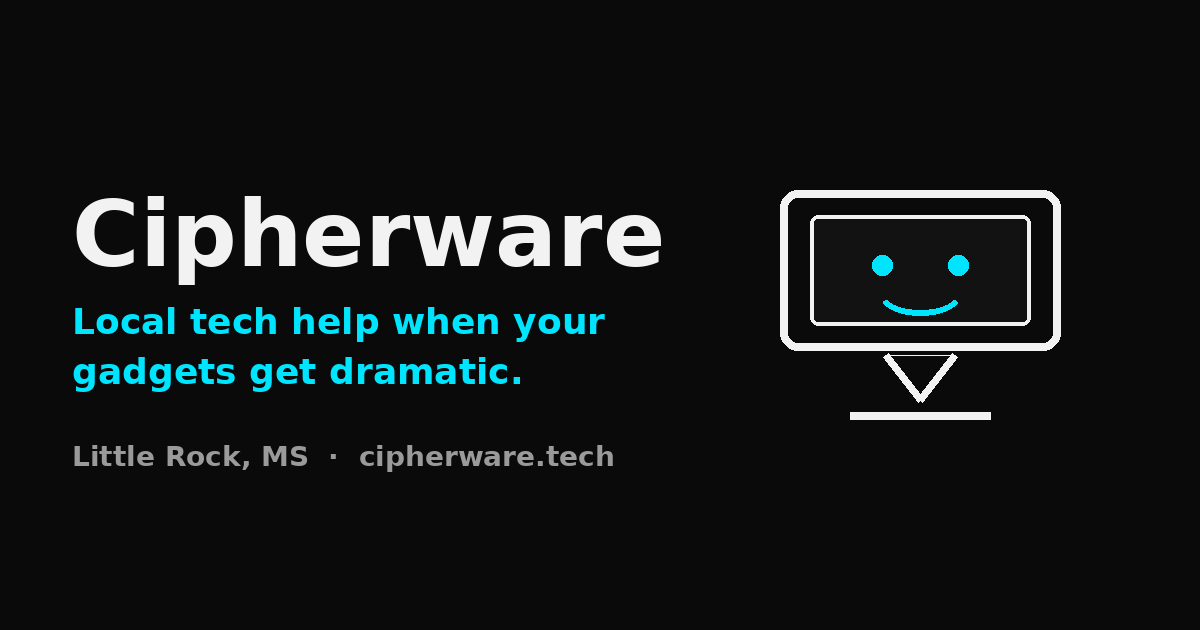
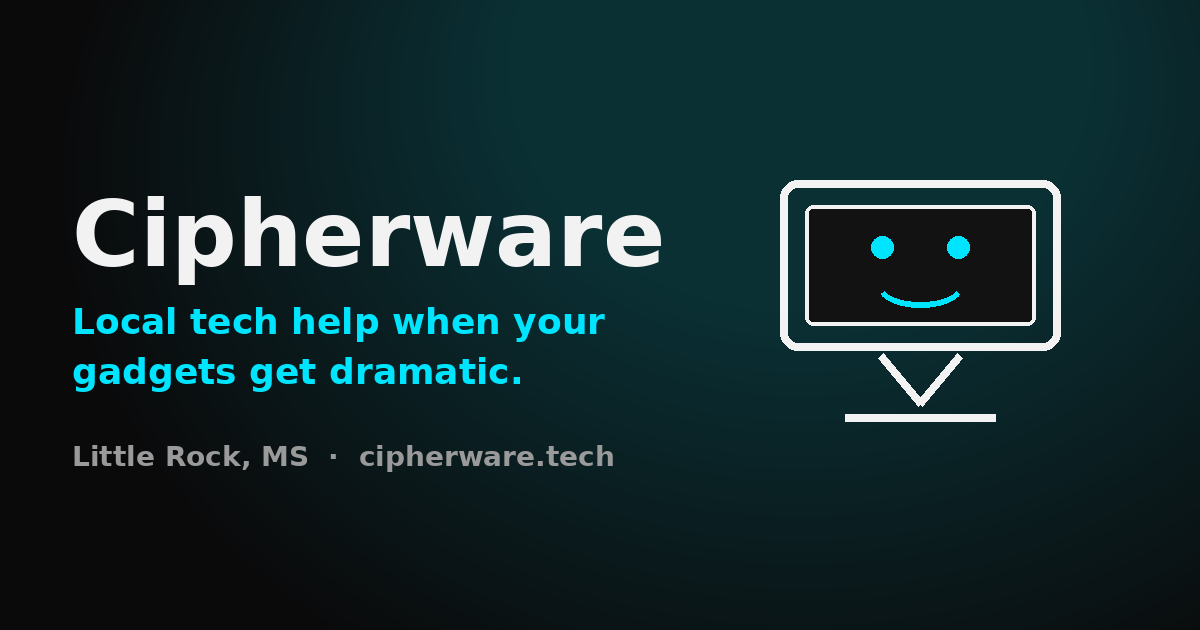
:lipstick: fix(og): raise mark face on share image (v1.5.1)

diff --git a/index.html b/index.html
@@ -15,14 +15,14 @@
     <meta property="og:url" content="https://cipherware.tech/" />
     <meta property="og:title" content="Cipherware — Local tech that doesn’t ghost you" />
     <meta property="og:description" content="Cipherware is a local Mississippi tech shop for IT consulting, device repair, websites, hosting, support, IoT, AI, and software — serving Little Rock, MS and surrounding area within 50 miles." />
-    <meta property="og:image" content="https://cipherware.tech/og-image.png" />
+    <meta property="og:image" content="https://cipherware.tech/og-image.png?v=1.5.1" />
     <meta property="og:image:width" content="1200" />
     <meta property="og:image:height" content="630" />
     <meta property="og:image:alt" content="Cipherware — local tech help in Little Rock, MS" />
     <meta name="twitter:card" content="summary_large_image" />
     <meta name="twitter:title" content="Cipherware — Local tech that doesn’t ghost you" />
     <meta name="twitter:description" content="Cipherware is a local Mississippi tech shop for IT consulting, device repair, websites, hosting, support, IoT, AI, and software — serving Little Rock, MS and surrounding area within 50 miles." />
-    <meta name="twitter:image" content="https://cipherware.tech/og-image.png" />
+    <meta name="twitter:image" content="https://cipherware.tech/og-image.png?v=1.5.1" />
     <link rel="icon" href="favicon.svg" type="image/svg+xml" />
     <link rel="preconnect" href="https://fonts.googleapis.com" />
     <link rel="preconnect" href="https://fonts.gstatic.com" crossorigin />
@@ -30,7 +30,7 @@
       href="https://fonts.googleapis.com/css2?family=Outfit:wght@400;500&family=Space+Grotesk:wght@500;700&display=swap"
       rel="stylesheet"
     />
-    <link rel="stylesheet" href="styles.css?v=1.5.0" />
+    <link rel="stylesheet" href="styles.css?v=1.5.1" />
   </head>
   <body>
     <div class="atmosphere" aria-hidden="true"></div>
@@ -152,10 +152,10 @@
       <div class="footer-meta">
         <span>© 2026 Cipherware</span>
         <span>Little Rock, MS</span>
-        <span class="site-version" data-site-version>v1.5.0</span>
+        <span class="site-version" data-site-version>v1.5.1</span>
       </div>
     </footer>
-    <script src="js/config.js?v=1.5.0"></script>
-    <script src="js/site.js?v=1.5.0"></script>
+    <script src="js/config.js?v=1.5.1"></script>
+    <script src="js/site.js?v=1.5.1"></script>
   </body>
 </html>

diff --git a/contact.html b/contact.html
@@ -15,14 +15,14 @@
     <meta property="og:url" content="https://cipherware.tech/contact.html" />
     <meta property="og:title" content="Contact &amp; Book — Cipherware" />
     <meta property="og:description" content="Contact Cipherware in Little Rock, MS — serving the surrounding area within 50 miles of Little Rock, MS. Phone, email, hours, and booking." />
-    <meta property="og:image" content="https://cipherware.tech/og-image.png" />
+    <meta property="og:image" content="https://cipherware.tech/og-image.png?v=1.5.1" />
     <meta property="og:image:width" content="1200" />
     <meta property="og:image:height" content="630" />
     <meta property="og:image:alt" content="Cipherware — local tech help in Little Rock, MS" />
     <meta name="twitter:card" content="summary_large_image" />
     <meta name="twitter:title" content="Contact &amp; Book — Cipherware" />
     <meta name="twitter:description" content="Contact Cipherware in Little Rock, MS — serving the surrounding area within 50 miles of Little Rock, MS. Phone, email, hours, and booking." />
-    <meta name="twitter:image" content="https://cipherware.tech/og-image.png" />
+    <meta name="twitter:image" content="https://cipherware.tech/og-image.png?v=1.5.1" />
     <link rel="icon" href="favicon.svg" type="image/svg+xml" />
     <link rel="preconnect" href="https://fonts.googleapis.com" />
     <link rel="preconnect" href="https://fonts.gstatic.com" crossorigin />
@@ -30,7 +30,7 @@
       href="https://fonts.googleapis.com/css2?family=Outfit:wght@400;500&family=Space+Grotesk:wght@500;700&display=swap"
       rel="stylesheet"
     />
-    <link rel="stylesheet" href="styles.css?v=1.5.0" />
+    <link rel="stylesheet" href="styles.css?v=1.5.1" />
   </head>
   <body>
     <div class="atmosphere" aria-hidden="true"></div>
@@ -127,12 +127,12 @@
       <div class="footer-meta">
         <span>© 2026 Cipherware</span>
         <span>Little Rock, MS</span>
-        <span class="site-version" data-site-version>v1.5.0</span>
+        <span class="site-version" data-site-version>v1.5.1</span>
       </div>
     </footer>
 
-    <script src="js/config.js?v=1.5.0"></script>
-    <script src="js/site.js?v=1.5.0"></script>
+    <script src="js/config.js?v=1.5.1"></script>
+    <script src="js/site.js?v=1.5.1"></script>
     <script src="js/cal-embed.js"></script>
   </body>
 </html>

diff --git a/about.html b/about.html
@@ -15,14 +15,14 @@
     <meta property="og:url" content="https://cipherware.tech/about.html" />
     <meta property="og:title" content="About — Cipherware" />
     <meta property="og:description" content="Cipherware is a small local tech business in Little Rock, Mississippi — serving the surrounding area within 50 miles of Little Rock, MS." />
-    <meta property="og:image" content="https://cipherware.tech/og-image.png" />
+    <meta property="og:image" content="https://cipherware.tech/og-image.png?v=1.5.1" />
     <meta property="og:image:width" content="1200" />
     <meta property="og:image:height" content="630" />
     <meta property="og:image:alt" content="Cipherware — local tech help in Little Rock, MS" />
     <meta name="twitter:card" content="summary_large_image" />
     <meta name="twitter:title" content="About — Cipherware" />
     <meta name="twitter:description" content="Cipherware is a small local tech business in Little Rock, Mississippi — serving the surrounding area within 50 miles of Little Rock, MS." />
-    <meta name="twitter:image" content="https://cipherware.tech/og-image.png" />
+    <meta name="twitter:image" content="https://cipherware.tech/og-image.png?v=1.5.1" />
     <link rel="icon" href="favicon.svg" type="image/svg+xml" />
     <link rel="preconnect" href="https://fonts.googleapis.com" />
     <link rel="preconnect" href="https://fonts.gstatic.com" crossorigin />
@@ -30,7 +30,7 @@
       href="https://fonts.googleapis.com/css2?family=Outfit:wght@400;500&family=Space+Grotesk:wght@500;700&display=swap"
       rel="stylesheet"
     />
-    <link rel="stylesheet" href="styles.css?v=1.5.0" />
+    <link rel="stylesheet" href="styles.css?v=1.5.1" />
   </head>
   <body>
     <div class="atmosphere" aria-hidden="true"></div>
@@ -104,10 +104,10 @@
       <div class="footer-meta">
         <span>© 2026 Cipherware</span>
         <span>Little Rock, MS</span>
-        <span class="site-version" data-site-version>v1.5.0</span>
+        <span class="site-version" data-site-version>v1.5.1</span>
       </div>
     </footer>
-    <script src="js/config.js?v=1.5.0"></script>
-    <script src="js/site.js?v=1.5.0"></script>
+    <script src="js/config.js?v=1.5.1"></script>
+    <script src="js/site.js?v=1.5.1"></script>
   </body>
 </html>

diff --git a/services.html b/services.html
@@ -15,14 +15,14 @@
     <meta property="og:url" content="https://cipherware.tech/services.html" />
     <meta property="og:title" content="Services — Cipherware" />
     <meta property="og:description" content="Device repair, IT consulting, website design, hosting, domains, IoT, AI, and software from Cipherware." />
-    <meta property="og:image" content="https://cipherware.tech/og-image.png" />
+    <meta property="og:image" content="https://cipherware.tech/og-image.png?v=1.5.1" />
     <meta property="og:image:width" content="1200" />
     <meta property="og:image:height" content="630" />
     <meta property="og:image:alt" content="Cipherware — local tech help in Little Rock, MS" />
     <meta name="twitter:card" content="summary_large_image" />
     <meta name="twitter:title" content="Services — Cipherware" />
     <meta name="twitter:description" content="Device repair, IT consulting, website design, hosting, domains, IoT, AI, and software from Cipherware." />
-    <meta name="twitter:image" content="https://cipherware.tech/og-image.png" />
+    <meta name="twitter:image" content="https://cipherware.tech/og-image.png?v=1.5.1" />
     <link rel="icon" href="favicon.svg" type="image/svg+xml" />
     <link rel="preconnect" href="https://fonts.googleapis.com" />
     <link rel="preconnect" href="https://fonts.gstatic.com" crossorigin />
@@ -30,7 +30,7 @@
       href="https://fonts.googleapis.com/css2?family=Outfit:wght@400;500&family=Space+Grotesk:wght@500;700&display=swap"
       rel="stylesheet"
     />
-    <link rel="stylesheet" href="styles.css?v=1.5.0" />
+    <link rel="stylesheet" href="styles.css?v=1.5.1" />
   </head>
   <body>
     <div class="atmosphere" aria-hidden="true"></div>
@@ -190,10 +190,10 @@
       <div class="footer-meta">
         <span>© 2026 Cipherware</span>
         <span>Little Rock, MS</span>
-        <span class="site-version" data-site-version>v1.5.0</span>
+        <span class="site-version" data-site-version>v1.5.1</span>
       </div>
     </footer>
-    <script src="js/config.js?v=1.5.0"></script>
-    <script src="js/site.js?v=1.5.0"></script>
+    <script src="js/config.js?v=1.5.1"></script>
+    <script src="js/site.js?v=1.5.1"></script>
   </body>
 </html>

diff --git a/js/config.js b/js/config.js
@@ -1,3 +1,3 @@
 /* Site config — bump VERSION when cutting a release branch. */
-window.CIPHERWARE_VERSION = "1.5.0";
+window.CIPHERWARE_VERSION = "1.5.1";
 window.CIPHERWARE_CAL_LINK = "nathaniel-more-4e9oew";
